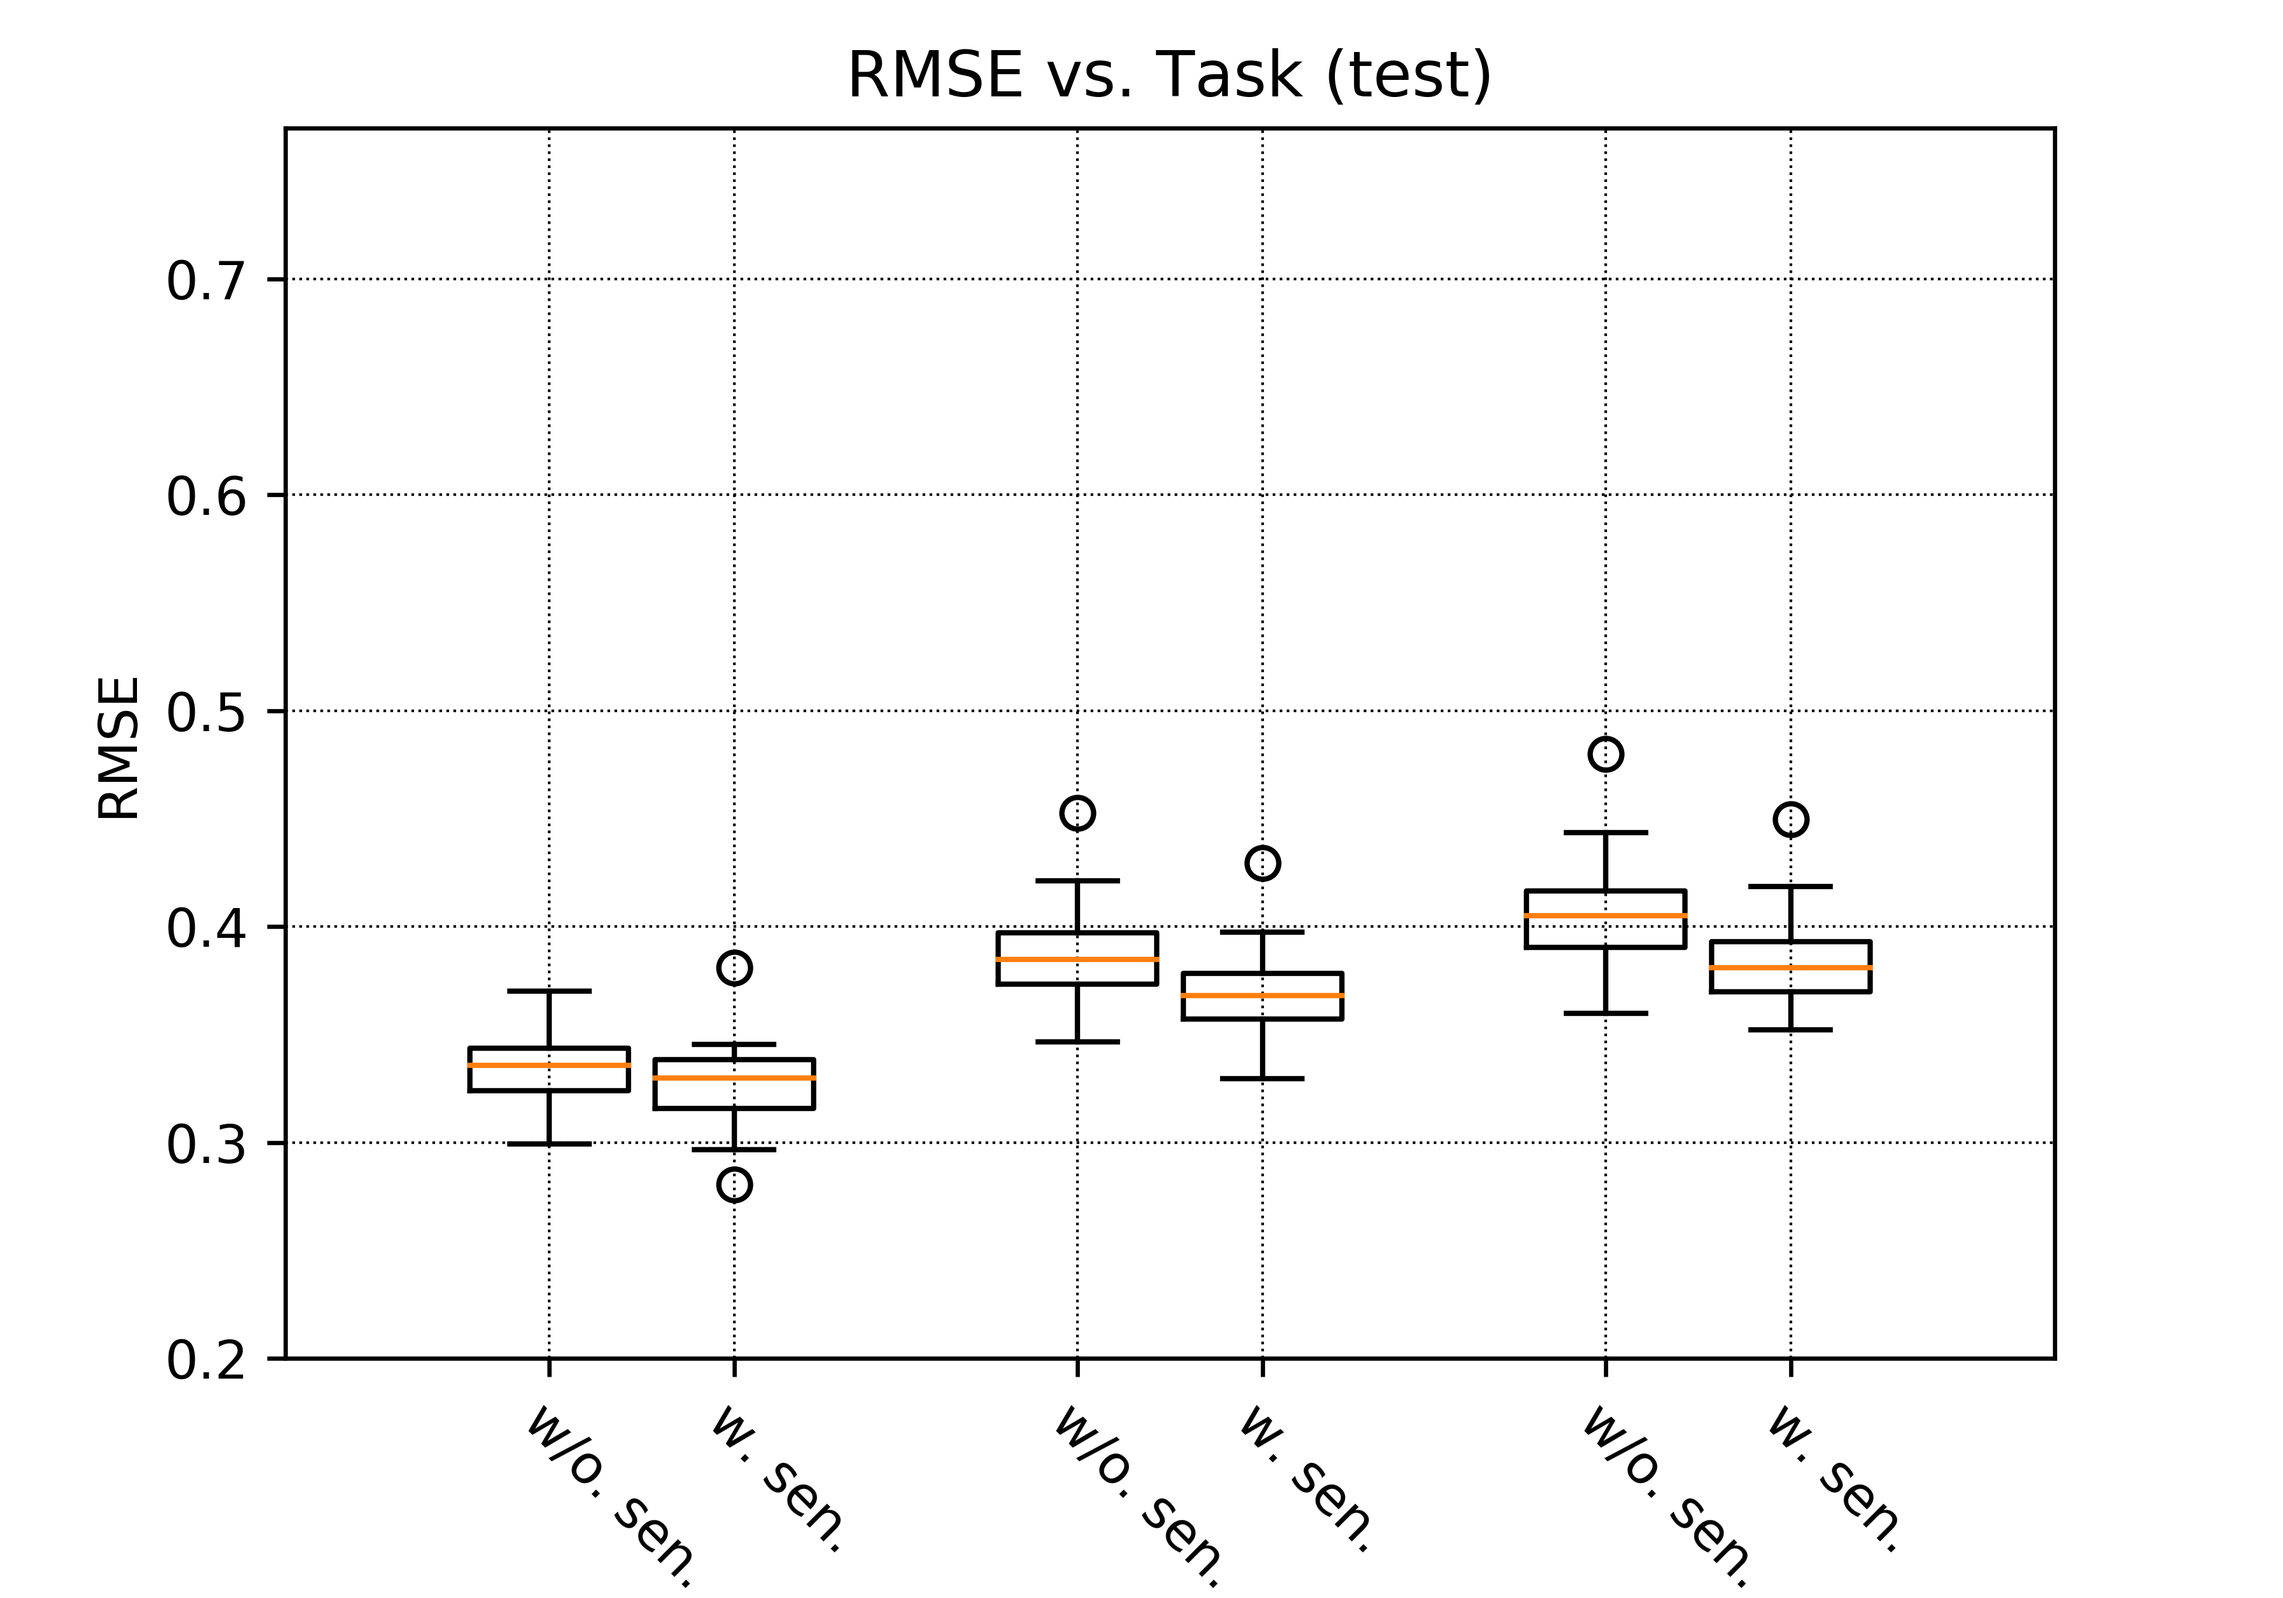
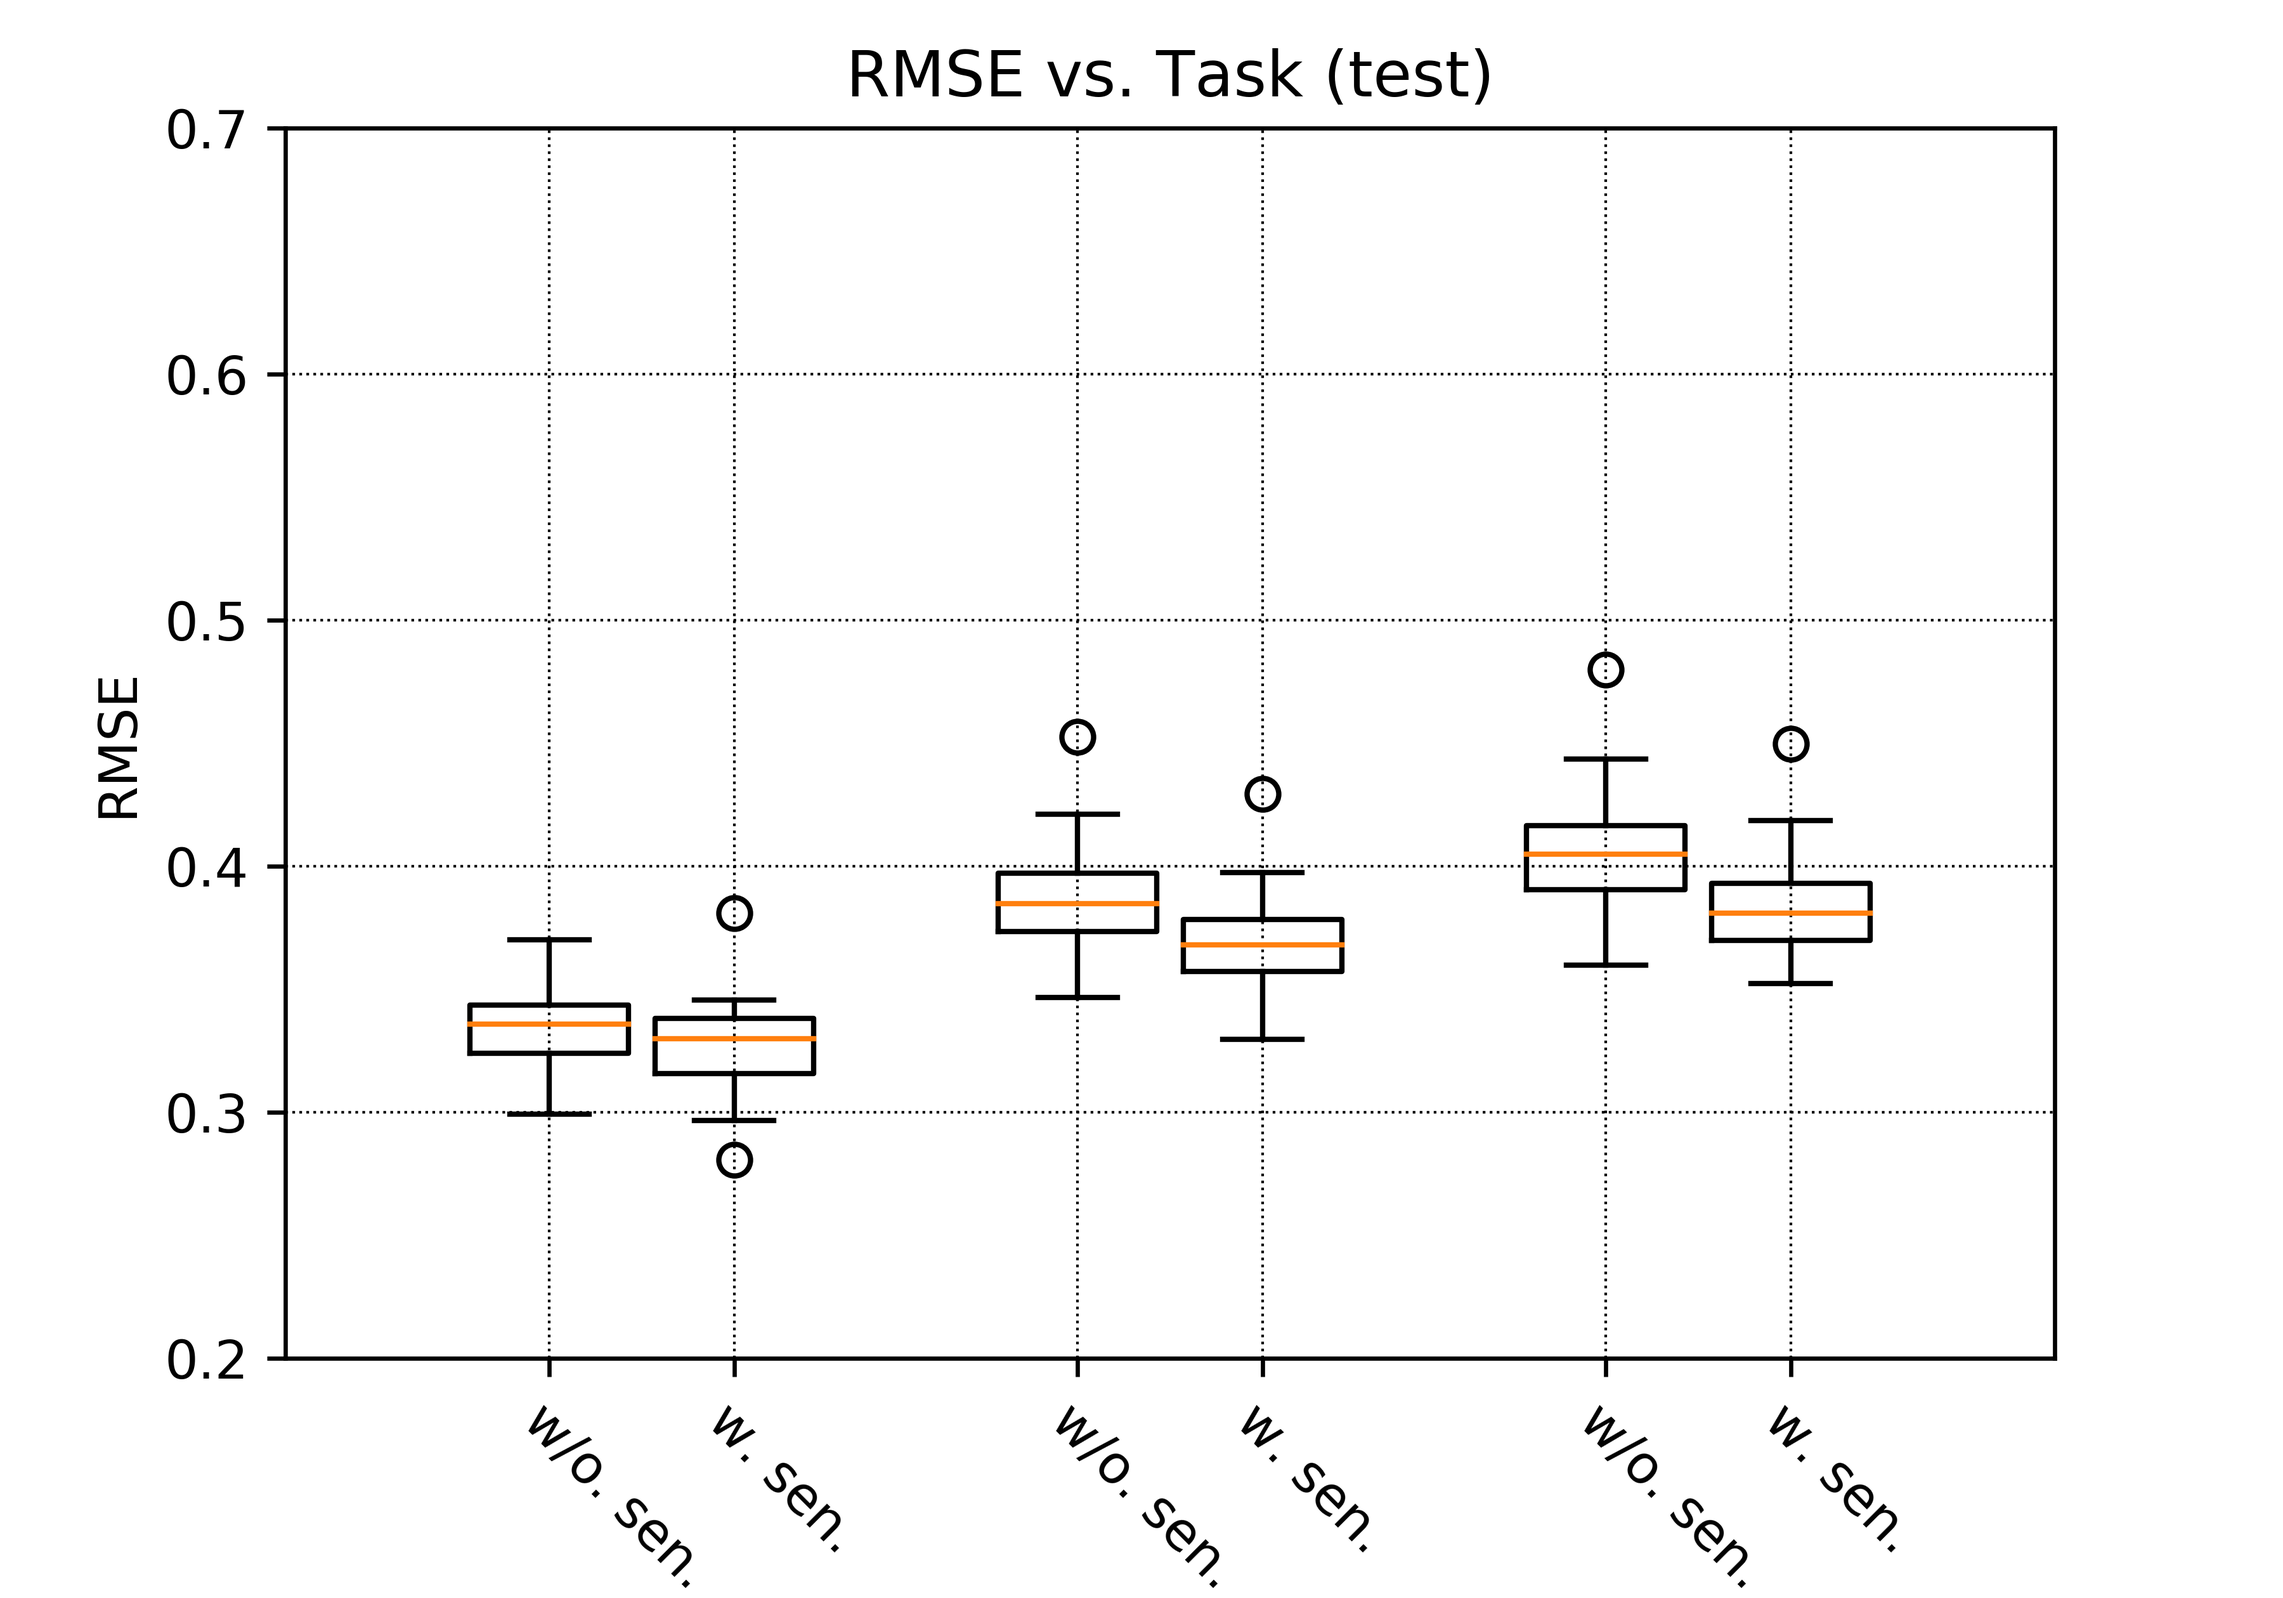
sparsity show function (ANN_viz_test_sample_ANN_weights.py) is now modified to show results from cur3_V4_TD_fulltest1

diff --git a/ANN_viz_test_sample_ANN_weights.py b/ANN_viz_test_sample_ANN_weights.py
@@ -119,7 +119,7 @@ def kin_normalization_fcn(weights_all_0_kinnormalized, num_joints = 8):
     # weights_all_0_kinnormalized[kin_order*num_joints:][:] = sub_matrix / sub_max
     return weights_all_0_kinnormalized
 
-def sparsity_calculation_fcn(logdir, threshold, draw_ANN=False):
+def sparsity_calculation_fcn(logdir, threshold, draw_ANN=False, num_joints = 8):
     Inverse_ANN_models = tf.keras.models.load_model(logdir+"model",compile=False)
     weights_all = Inverse_ANN_models.get_weights()
     tf.keras.backend.clear_session()
@@ -133,10 +133,6 @@ def sparsity_calculation_fcn(logdir, threshold, draw_ANN=False):
     sparsity_ratio = (num_zeros_2+num_zeros_0)/total_num_elements
     # drawing the ANN
     if draw_ANN:
-        vertical_distance_between_layers = 6
-        horizontal_distance_between_neurons = 2
-        neuron_radius = 0.5
-        number_of_neurons_in_widest_layer = 28
         network = NeuralNetwork()
         network.add_layer(W_thresh_2.shape[1], W_thresh_2/np.max(W_thresh_2)) # output layer
         network.add_layer(W_thresh_0.shape[1], W_thresh_0/np.max(W_thresh_0)) # hidden layer
@@ -145,58 +141,62 @@ def sparsity_calculation_fcn(logdir, threshold, draw_ANN=False):
     return sparsity_ratio
 
 if __name__ == "__main__":
-    experiment_ID_base = "sparsityrun_V1_par"
-    ANN_structures = ["M"]
-    for ANN_structure in ANN_structures:
-        task_type="cyclical"
-        experiment_ID = "wo_Sensory_"+ANN_structure+"_ANN_"+task_type
-        save_log_path = experiment_ID_base+"/"+experiment_ID#
-        total_run_no=50
-        thresholds = np.arange(0,1.1,.05)
-        means=np.zeros(len(thresholds))
-        stds=np.zeros(len(thresholds))
-        sparsity_ratios_all = np.zeros((total_run_no,len(thresholds)))
-        for threshold, threshold_num in zip(thresholds, range(len(thresholds))):
-            if ANN_structure=="M":
-                number_of_legs = 4
-                num_joints = 2
-                sparsity_ratios = np.zeros((number_of_legs, total_run_no))
-                std_sparsity_ratios = np.zeros((number_of_legs, total_run_no))
-                for leg in range(number_of_legs):
-                    for run_no in range(total_run_no):
-                        print("Leg_{}_MC_no: {}".format(leg, run_no))
-                        log_address="./log/{}/{}/".format(save_log_path,run_no)
-                        logdir = log_address+"leg_{}/".format(leg)
-                        sparsity_ratios[leg, run_no] = sparsity_calculation_fcn(logdir, threshold, draw_ANN=False)
-                        sparsity_ratios_all[run_no,threshold_num] = sparsity_calculation_fcn(logdir, threshold, draw_ANN=False)
-                mean_sparsity_ratios = sparsity_ratios.mean()
-                std_sparsity_ratios = sparsity_ratios.std(axis=1).mean() # calculated across mc runs and averaged across legs
-            elif ANN_structure=="S":
-                num_joints = 8
-                sparsity_ratios = np.zeros(total_run_no)
-                std_sparsity_ratios = np.zeros(total_run_no)
-                for run_no in range(total_run_no):
-                    print("MC_no:", run_no)
-                    log_address="./log/{}/{}/".format(save_log_path,run_no)
-                    logdir = log_address+"compound/"
-                    sparsity_ratios[run_no] = sparsity_calculation_fcn(logdir, threshold, draw_ANN=False)
-                    sparsity_ratios_all[run_no,threshold_num] = sparsity_calculation_fcn(logdir, threshold, draw_ANN=False)
-                mean_sparsity_ratios = sparsity_ratios.mean()
-                std_sparsity_ratios = sparsity_ratios.std()
-            else:
-                ValueError("unacceptable ANN_structure")
-            means[threshold_num] = mean_sparsity_ratios
-            stds[threshold_num] = std_sparsity_ratios
-        np.save("results/"+experiment_ID_base+"/all_means_{}.npy".format(ANN_structure), means)
-        np.save("results/"+experiment_ID_base+"/all_stds_{}.npy".format(ANN_structure), stds)
-        np.save("results/"+experiment_ID_base+"/all_sparsities_{}.npy".format(ANN_structure), sparsity_ratios_all)
+    experiment_ID_base = "cur3_V4_TD_fulltest1"
+    ANN_structures = ["S","M"]
+    cur = "_E2H"
+    task_type="cyclical"
+    just_plot = True
 
-    means_S = np.load("results/"+experiment_ID_base+"/all_means_S.npy")
-    stds_S = np.load("results/"+experiment_ID_base+"/all_stds_S.npy")
-    means_M = np.load("results/"+experiment_ID_base+"/all_means_M.npy")
-    stds_M = np.load("results/"+experiment_ID_base+"/all_stds_M.npy")
-    sparsities_all_S = np.load("results/"+experiment_ID_base+"/all_sparsities_S.npy")
-    sparsities_all_M = np.load("results/"+experiment_ID_base+"/all_sparsities_M.npy")
+    thresholds = np.arange(0,1.1,.05)
+    if not just_plot:
+        for ANN_structure in ANN_structures:
+            experiment_ID = "wo_Sensory_"+ANN_structure+"_ANN_"+task_type+cur
+            save_log_path = experiment_ID_base+"/"+experiment_ID#
+            total_run_no=50        
+            means=np.zeros(len(thresholds))
+            stds=np.zeros(len(thresholds))
+            sparsity_ratios_all = np.zeros((total_run_no,len(thresholds)))
+            for threshold, threshold_num in zip(thresholds, range(len(thresholds))):
+                if ANN_structure=="M":
+                    number_of_legs = 4
+                    num_joints = 2
+                    sparsity_ratios = np.zeros((number_of_legs, total_run_no))
+                    std_sparsity_ratios = np.zeros((number_of_legs, total_run_no))
+                    for leg in range(number_of_legs):
+                        for run_no in range(total_run_no):
+                            print("Threshold: {}, Leg: {}, MC_no: {}".format(threshold, leg, run_no))
+                            log_address="./log/{}/{}/".format(save_log_path,run_no)
+                            logdir = log_address+"leg_{}/".format(leg)
+                            sparsity_ratios[leg, run_no] = sparsity_calculation_fcn(logdir, threshold, draw_ANN=False)
+                            sparsity_ratios_all[run_no,threshold_num] = sparsity_calculation_fcn(logdir, threshold, draw_ANN=False)
+                    mean_sparsity_ratios = sparsity_ratios.mean()
+                    std_sparsity_ratios = sparsity_ratios.std(axis=1).mean() # calculated across mc runs and averaged across legs
+                elif ANN_structure=="S":
+                    num_joints = 8
+                    sparsity_ratios = np.zeros(total_run_no)
+                    std_sparsity_ratios = np.zeros(total_run_no)
+                    for run_no in range(total_run_no):
+                        print("Threshold: {}, MC_no: {}".format( threshold,run_no))
+                        log_address="./log/{}/{}/".format(save_log_path,run_no)
+                        logdir = log_address+"compound/"
+                        sparsity_ratios[run_no] = sparsity_calculation_fcn(logdir, threshold, draw_ANN=False)
+                        sparsity_ratios_all[run_no,threshold_num] = sparsity_calculation_fcn(logdir, threshold, draw_ANN=False)
+                    mean_sparsity_ratios = sparsity_ratios.mean()
+                    std_sparsity_ratios = sparsity_ratios.std()
+                else:
+                    ValueError("unacceptable ANN_structure")
+                means[threshold_num] = mean_sparsity_ratios
+                stds[threshold_num] = std_sparsity_ratios
+            np.save("results/"+experiment_ID_base+"/sparsity_all_means_{}.npy".format(ANN_structure), means)
+            np.save("results/"+experiment_ID_base+"/sparsity_all_stds_{}.npy".format(ANN_structure), stds)
+            np.save("results/"+experiment_ID_base+"/sparsity_all_sparsities_{}.npy".format(ANN_structure), sparsity_ratios_all)
+
+    means_S = np.load("results/"+experiment_ID_base+"/sparsity_all_means_S.npy")
+    stds_S = np.load("results/"+experiment_ID_base+"/sparsity_all_stds_S.npy")
+    means_M = np.load("results/"+experiment_ID_base+"/sparsity_all_means_M.npy")
+    stds_M = np.load("results/"+experiment_ID_base+"/sparsity_all_stds_M.npy")
+    sparsities_all_S = np.load("results/"+experiment_ID_base+"/sparsity_all_sparsities_S.npy")
+    sparsities_all_M = np.load("results/"+experiment_ID_base+"/sparsity_all_sparsities_M.npy")
     
     p_values = np.zeros(len(thresholds))
     F_values = np.zeros(len(thresholds))
@@ -204,7 +204,7 @@ if __name__ == "__main__":
     pyplot.figure(figsize = (7,5))
     pyplot.errorbar(thresholds[3:-2],1-means_S[3:-2], yerr=stds_S[3:-2], capsize=3)
     pyplot.errorbar(thresholds[3:-2],1-means_M[3:-2], yerr=stds_M[3:-2], capsize=3)
-    pyplot.legend(["Single ANN","Individual ANNs"])
+    pyplot.legend(["single ANN","multiple ANNs"])
     # pyplot.errorbar(thresholds[3:-2],(1-means_M[3:-2])/(1-means_S[3:-2]), capsize=3)
 
     # pyplot.figure()
@@ -221,5 +221,31 @@ if __name__ == "__main__":
     pyplot.ylabel("density ratio")
     pyplot.title("ANN densities vs. weight reject threshold")
     pyplot.show(block=True)
+
+    draw_ANN = True
+    if draw_ANN:
+        vertical_distance_between_layers = 6
+        horizontal_distance_between_neurons = 2
+        neuron_radius = 0.5
+        number_of_neurons_in_widest_layer = 28
+
+        threshold = .5
+        run_no = 1
+        experiment_ID = "wo_Sensory_"+ANN_structures[0]+"_ANN_"+task_type+cur
+        save_log_path = experiment_ID_base+"/"+experiment_ID#
+        log_address="./log/{}/{}/".format(save_log_path,run_no)
+        logdir = log_address+"compound/"
+        sparsity = sparsity_calculation_fcn(logdir, threshold, draw_ANN=draw_ANN)
+        print("sparsity: ", sparsity)
+
+        experiment_ID = "wo_Sensory_"+ANN_structures[1]+"_ANN_"+task_type+cur
+        save_log_path = experiment_ID_base+"/"+experiment_ID#
+        log_address="./log/{}/{}/".format(save_log_path,run_no)
+        leg = 0
+        logdir = log_address+"leg_{}/".format(leg)
+        sparsity = sparsity_calculation_fcn(logdir, threshold, draw_ANN=draw_ANN, num_joints = 2)
+        print("sparsity: ", sparsity)
+
+    
     # import pdb; pdb.set_trace()
 

diff --git a/show_results_3phases_2tasks_cur_multiANN_par.py b/show_results_3phases_2tasks_cur_multiANN_par.py
@@ -6,9 +6,9 @@ experiment_ID_base = 'cur3_V4_TD_fulltest1'
 curriculums = ["_E2H", "_H2E"]
 ANN_structures = ["S","M"]
 task_types = ["cyclical", "p2p"]
-task_type = task_types[0]
-curriculum = curriculums[0]
-ANN_structure = ANN_structures[1]
+task_type = task_types[1]
+curriculum = curriculums[1]
+ANN_structure = ANN_structures[0]
 number_of_refinements = 8
 number_of_all_runs = 50
 
@@ -85,10 +85,10 @@ for use_sensory in all_sensory_cases:
 	         rotation_mode="anchor")
 	axes2.set_ylabel('RMSE')
 	axes2.grid(color='k', linestyle=':', linewidth=.5)
-	axes2.set_ylim(0.2, .77)
+	axes2.set_ylim(0.2, .7)
 	fig2.subplots_adjust(bottom=0.15, top=.92)
 
-save_figures = False
+save_figures = True
 if save_figures:
 	dpi = 600
 	# fig1.subplots_adjust(left=.06, bottom=.12, right=.96, top=.92, wspace=.30, hspace=.20)
@@ -99,7 +99,7 @@ plt.show(block=False)
 
 
 dt=.005
-show_video = True
+show_video = False
 use_sensory = True
 task_type = task_types[0]
 curriculum = curriculums[0]
@@ -114,6 +114,6 @@ run_no = 0
 MuJoCo_model_names = ["tendon_quadruped_ws_inair.xml", "tendon_quadruped_ws_onfloor.xml", "tendon_quadruped_ws_onfloorloaded.xml"]
 if show_video:
 	for MuJoCo_model_name , ii in zip(MuJoCo_model_names, range(len(MuJoCo_model_names))):
-		tmp = test_a_task(MuJoCo_model_name, save_log_path, run_no, Mj_render=True, use_sensory=use_sensory, task_type=task_type, ANN_structure=ANN_structure, dt=dt, actuation_type=actuation_type)
+		_ = test_a_task(MuJoCo_model_name, save_log_path, run_no, Mj_render=True, use_sensory=use_sensory, task_type=task_type, ANN_structure=ANN_structure, dt=dt, actuation_type=actuation_type)
 
 #import pdb; pdb.set_trace()
